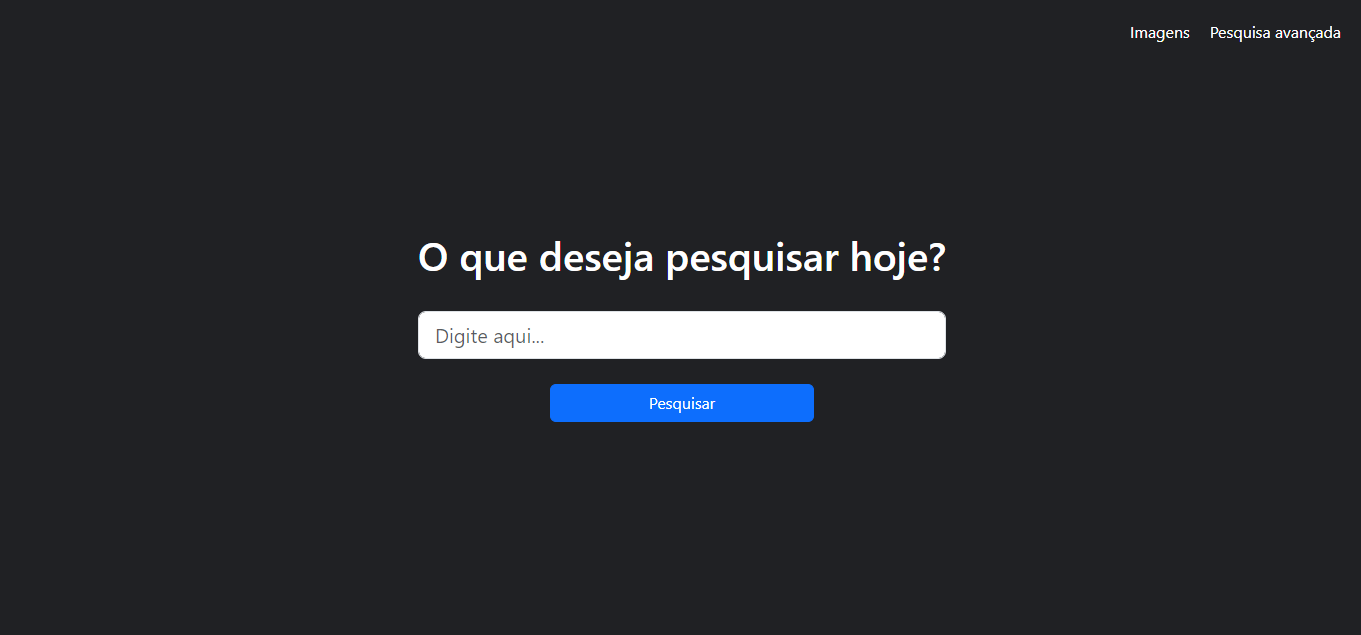
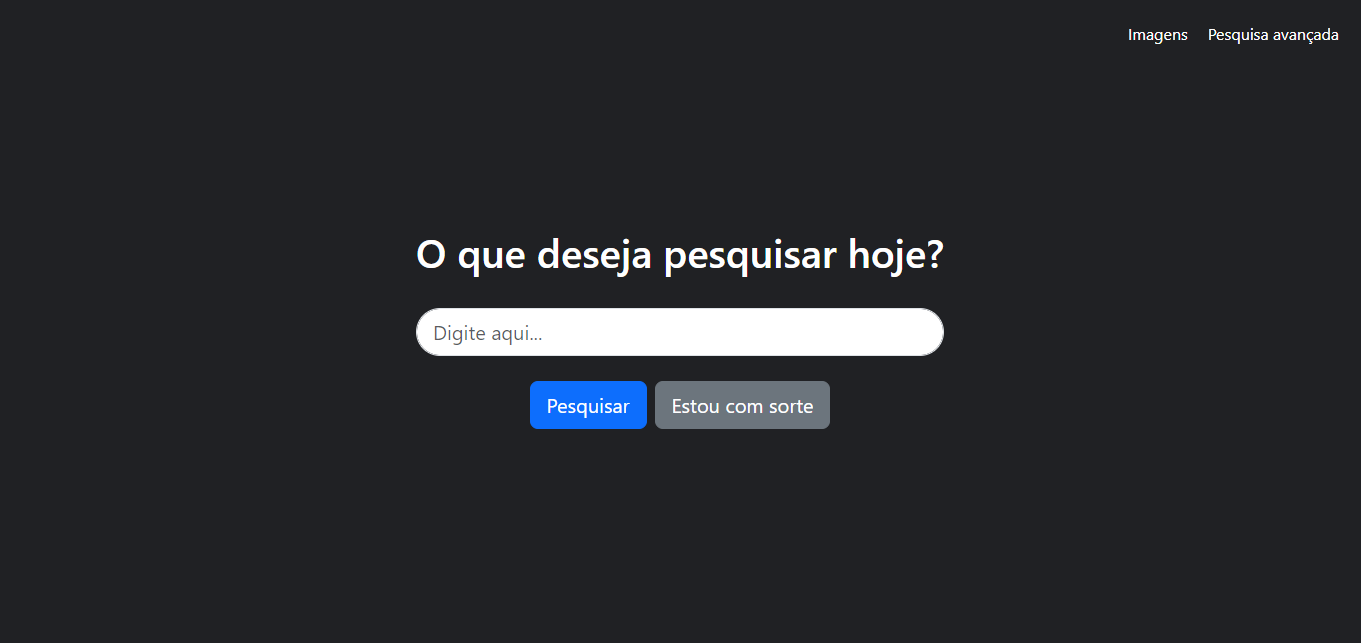
versao 1.4

Changed region(s): [[0.3086, 0.4787, 0.7098, 0.6882], [0.3086, 0.3591, 0.7098, 0.4488], [0.8332, 0.0299, 0.9875, 0.0898]]

diff --git a/week 0/index.html b/week 0/index.html
@@ -17,10 +17,10 @@
                 <h1>O que deseja pesquisar hoje?</h1>
                 <br>
                 <form action="https://www.google.com/search?">
-                    <input class="form-control form-control-lg" type="text" placeholder="Digite aqui..." aria-label=".form-control-lg example" name="q" required>
-                    <div class="d-grid gap-2 col-6 mx-auto">
-                        <button type="submit" class="btn btn-primary">Pesquisar</button>
-
+                    <input class="form-control form-control-lg" type="text" placeholder="Digite aqui..." aria-label=".form-control-lg example" name="q">
+                    <div class="gap-2 col-12 mx-auto">
+                        <button type="submit">Pesquisar</button>
+                        <button type="submit" name="btnI">Estou com sorte</button>
                       </div>
                 </form>
             </div>

diff --git a/week 0/styles/style.scss b/week 0/styles/style.scss
@@ -1,15 +1,31 @@
 %menu {
     text-decoration: none;
     color: white;
+    font-size: 13px;
 
 }
 $background:#202124;
 *{
     margin: 0px;
     padding: 0px;
+    font-family: Arial, Helvetica, sans-serif;
 }
 body{
     background-color: $background;
+}
+button{
+    height: 36;
+    padding: 8px 16px;
+    background-color: rgb(48, 49, 52);
+    color:white;
+    border: none;
+    font-size: 14px;
+    font-weight: 400;
+    border-radius: 4px;
+    margin: 0px 4px;
+}
+button:hover{
+    border: 1px solid rgb(232, 234, 237);
 }
 nav{
     display: flex;
@@ -35,7 +51,15 @@ nav{
     form{
         input[type="text"]{
             margin-bottom: 25px;
+            font-size: 16px;
             
+        }
+        input{
+            border-radius: 100px;
+        }
+        div{
+            display: flex;
+            justify-content: center;
         }
     }
 }

diff --git a/week 0/styles/style.css b/week 0/styles/style.css
@@ -1,15 +1,33 @@
 nav a {
   text-decoration: none;
   color: white;
+  font-size: 13px;
 }
 
 * {
   margin: 0px;
   padding: 0px;
+  font-family: Arial, Helvetica, sans-serif;
 }
 
 body {
   background-color: #202124;
+}
+
+button {
+  height: 36;
+  padding: 8px 16px;
+  background-color: rgb(48, 49, 52);
+  color: white;
+  border: none;
+  font-size: 14px;
+  font-weight: 400;
+  border-radius: 4px;
+  margin: 0px 4px;
+}
+
+button:hover {
+  border: 1px solid rgb(232, 234, 237);
 }
 
 nav {
@@ -32,6 +50,14 @@ nav a:hover {
 }
 #search form input[type=text] {
   margin-bottom: 25px;
+  font-size: 16px;
+}
+#search form input {
+  border-radius: 100px;
+}
+#search form div {
+  display: flex;
+  justify-content: center;
 }
 
 /*# sourceMappingURL=style.css.map */

diff --git a/week 0/styles/pesquisaAvancada.scss b/week 0/styles/pesquisaAvancada.scss
@@ -8,6 +8,9 @@ $background:#202124;
     margin: 0px;
     padding: 0px;
 }
+button{
+    height: 20px;
+}
 body{
     background-color: $background;
     margin:2%;
@@ -48,5 +51,6 @@ nav{
                 color: #fff;                
                 
             }
+            
         }
     }

diff --git a/week 0/README.md b/week 0/README.md
@@ -1,7 +1,7 @@
 # Semana 0 - HTML, CSS
 Neste projeto pude aplica revisar alguns conceitos de html e css e aplicar novos conhecimentos obtidos na primeira aula do curso "CS50’s Web Programming with Python and JavaScript".
 
-Nos foi proposto a criação de 3 páginas (pesquisa, pesquisa de imagens, pesquisa avançada) com as funcionalidades do mecanismo de pesquisa do Google onde digitamos informações no formulário e ao enviar-mos somos direcionados para o resultado da pesquisa no próprio google.
+Nos foi proposto a criação de 3 páginas (pesquisa, pesquisa de imagens, pesquisa avançada) com as funcionalidades do mecanismo de pesquisa do Google onde digitamos informações no formulário que ao enviar somos direcionados para o resultado da pesquisa no próprio google.
 Para isso precisei vericicar a url da página de pesquisa e identificar aquilo que de fato é importante para a exibição do resultado, ao identificá-los pude atribuí-los ao atributo "name" dos inputs.
 
 Na aula pude conhecer e no projeto implementar tópicos como:
